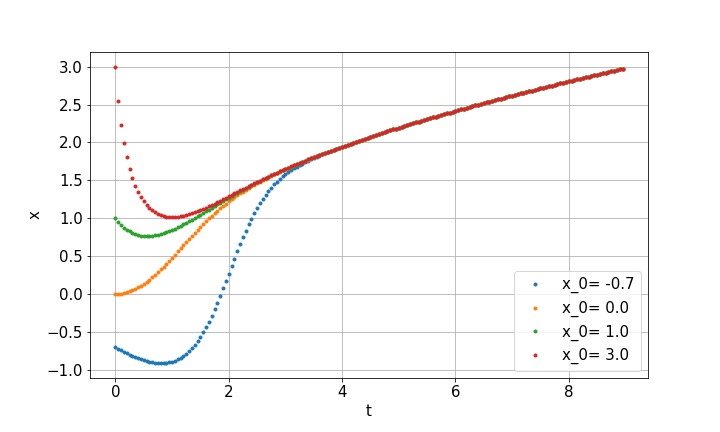
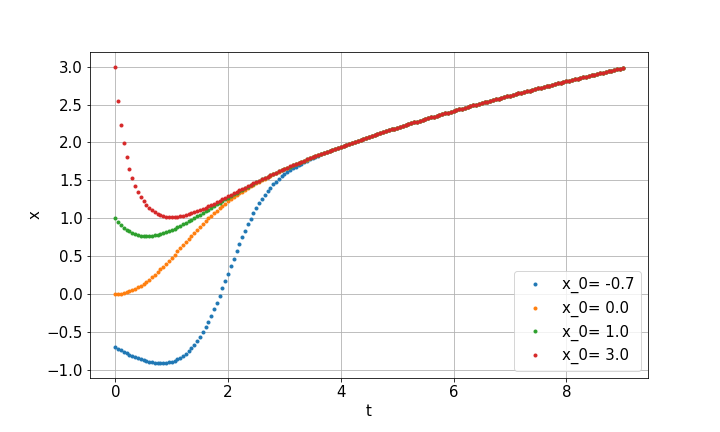
Z1A1 Aufrunden

diff --git a/Zettel1/A1.py b/Zettel1/A1.py
@@ -14,8 +14,6 @@ from scipy import optimize
 import glob
 import os
 
-import periodic
-
 
 # Konstanten fuer einheitliche Darstellung
 
@@ -40,15 +38,15 @@ grad = 1/rad
 
 def ff(t, x):
     return t-x**2
-    
+
 def euler(aa, bb, hh, x_0, ff, tt, meshpoints):
-    
+
     xx = np.zeros(meshpoints)
     xx[0] = x_0
     for i in range(1, meshpoints):
         xx[i] = xx[i-1] + hh * ff(tt[i], xx[i-1])
     return xx
-    
+
 aa = 0.0
 bb = 9.0
 hh = 0.05
@@ -56,7 +54,7 @@ x_0 = [-0.7, 0.0, 1.0, 3.0]
 
 fig = plt.figure(figsize=fig_size)
 for aufg in range(4):
-    meshpoints = int(round((bb-aa)/hh+0.5)) # aufrunden
+    meshpoints = int(round((bb-aa)/hh+0.500001)) # aufrunden
     tt = np.arange(meshpoints)
     tt = aa + tt * hh
     xx = euler(aa, bb, hh, x_0[aufg], ff,tt,meshpoints)
@@ -92,6 +90,6 @@ plt.tick_params(labelsize=fig_labelsize)
 plt.savefig("Zettel1/figures/A1-bc.png")
 plt.show()
 print('Interpretation: Halbierung der Schrittweite kann den Unterschied\n'
-    'zwischen Chaos und Lösung darstellen. Bei zu kleiner Schrittweite\n' 
+    'zwischen Chaos und Lösung darstellen. Bei zu kleiner Schrittweite\n'
     'findet eine Oszillation zwischen Funktionswerten statt.')
 # %%
